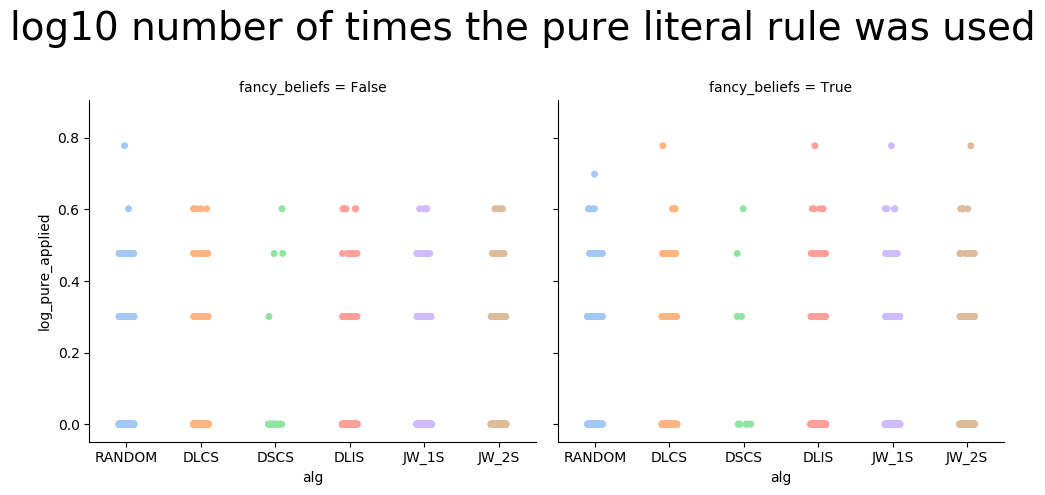
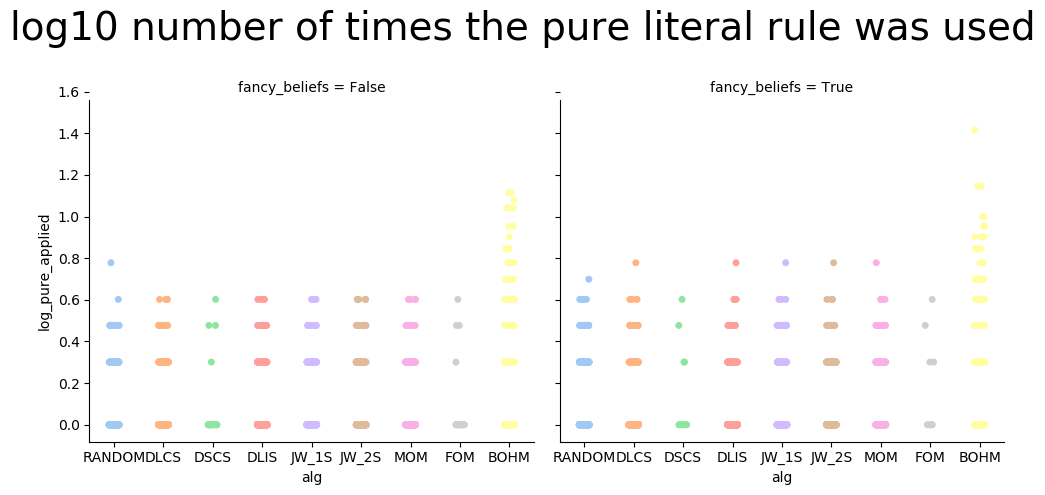
renew pics, update reporting code

diff --git a/src/plot.py b/src/plot.py
@@ -11,14 +11,24 @@ df = df[df['splits'] != 0]
 df['type'] = df['inputfile'].map(lambda s: s.split(os.path.sep)[-2])
 df = df[df['type'] != 'dimacs']
 df['smart_ratio'] = df.apply(lambda x: 1 - x['backtracks'] / x['splits'], axis=1)
+# df['split_to_backtrack'] = df.apply(lambda x: x['splits'] / x['backtracks'])
 
 def check_significance(df):
     a = df[df.fancy_beliefs == False]
     b = df[df.fancy_beliefs]
-    stat, p = mannwhitneyu(a['smart_ratio'], b['smart_ratio'], alternative='less')
+    stat, p = mannwhitneyu(a[metric], b[metric], alternative=kind)
     return p
 
-df.groupby(['alg']).apply(check_significance)
+metrics = {
+    'smart_ratio': 'less',
+    # 'split_to_backtrack': 'less',
+    'splits': 'greater',
+    'backtracks': 'greater',
+    'secs': 'greater',
+}
+for metric, kind in metrics.items():
+    print(metric)
+    print(df.groupby(['alg']).apply(check_significance))
 
 # 'categorical':
 # 'alg',
@@ -43,7 +53,7 @@ metrics = {
     # 'assigned': 'number of assigned variables (higher is better)',
     'backtracks': 'number of backtracks (lower is better)',  # algorithm quality (more so than splits), problem difficulty
     'splits': 'number of splits (lower is better)',  # algorithm quality, problem difficulty (more so than backtracks)
-    'smart_ratio': '1 - backtracks / splits: ratio of decisions that lead to a solution',  # algorithm quality
+    # 'smart_ratio': '1 - backtracks / splits: ratio of decisions that lead to a solution',  # algorithm quality
     'secs': 'seconds taken to solution (lower is better)',  # machine/implementation quality, algorithm quality, problem difficulty
     'pure_applied': 'number of times the pure literal rule was used',
     'unit_applied': 'number of times the unit clause rule was used',
@@ -51,9 +61,9 @@ metrics = {
 
 sns.set_palette('pastel')
 for metric, title in metrics.items():
-    print(metric)
-    # log_metric = f'log_{metric}'
-    # df[log_metric] = df[metric].map(np.log10)
+    # print(metric)
+    log_metric = f'log_{metric}'
+    df[log_metric] = df[metric].map(np.log10)
 
     # for plot_type in plot_types:
     #     print(plot_type)
@@ -61,8 +71,8 @@ for metric, title in metrics.items():
     plot = sns.catplot(
         # hue='fancy_beliefs',
         x='alg',
-        # y=log_metric,
-        y=metric,
+        # y=metric,
+        y=log_metric,
         # row='type',
         col='fancy_beliefs',
         # col_wrap=4,
@@ -70,7 +80,7 @@ for metric, title in metrics.items():
         # kind=plot_type,
     )
     plt.subplots_adjust(top=0.8)
-    # title = f'log10 {title}'
+    title = f'log10 {title}'
     plt.suptitle(title, fontsize=28)
 
     fig_name = f'{metric}.png'
